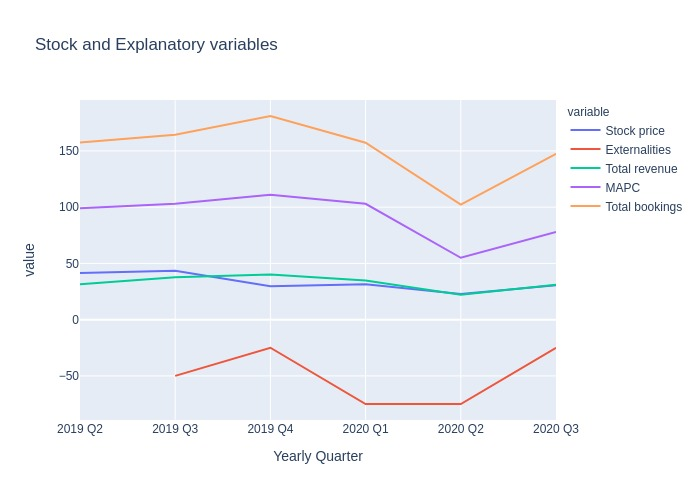
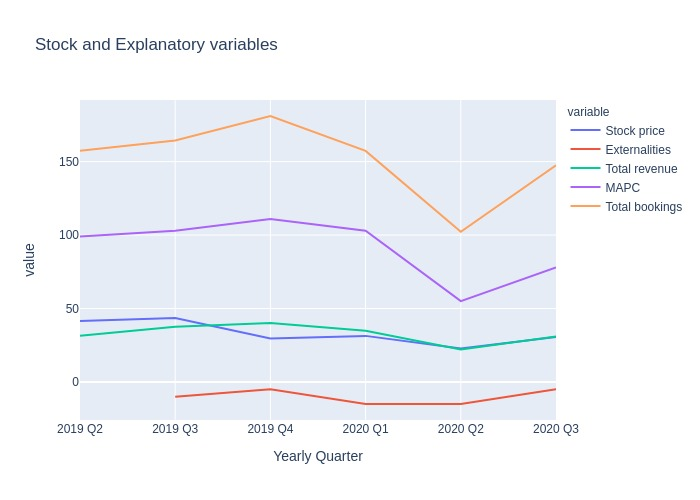
Add consolidated graphs

diff --git a/graphs.py b/graphs.py
@@ -56,7 +56,7 @@ data['Bookings(Ride)'] = data['Bookings(Ride)']/100
 data['Bookings(Delivery)'] = data['Bookings(Delivery)']/100
 data['Bookings(Freight)'] = data['Bookings(Freight)']/100
 data['Total bookings'] = data['Total bookings']/100
-data['Externalities'] = data['Externalities']*25
+data['Externalities'] = data['Externalities']*5
 
 title = 'Stock and Revenue'
 fig = px.line(df, x='Yearly Quarter', y=['Stock price', 'Revenue(Ride)', 'Revenue(Delivery)', 'Revenue(Freight)', 'Total revenue',], title=title)
